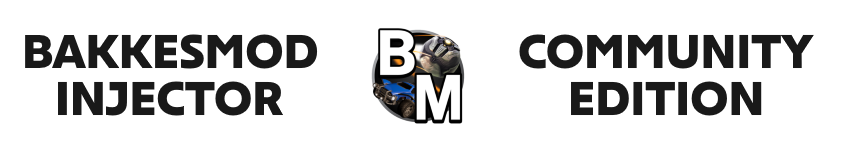
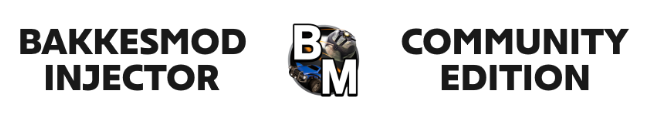
Initial Commit

diff --git a/README.md b/README.md
@@ -1,14 +1,14 @@
 <p align="center">
-  <img src="https://i.imgur.com/m5CjODH.png"><br></br>
+  <img src="https://i.imgur.com/Db7wmTl.png"><br></br>
   <b>Discord:</b> https://discordapp.com/invite/HsM6kAR
 </p>
 
 ## About
 
-BakkesModInjector Community Edition is as a replacement for the original BakkesModInjectorCpp that's provided by Bakkes.
-BakkesMod itself is the exact same, so you will keep all your files and get all the latest updates. The only difference is the injector.
+BakkesModInjector Community Edition is as a replacement for the original BakkesModInjectorCpp that's provided by default.
 Created by ItsBranK (me), along with the contributors SimpleAOB and Aberinkula/Megasplat;
-this project was created to provide users with a more user friendly, stable, and feature packed injector for daily users of BakkesMod.
+this project was made to provide daily BakkesMod users with a more user friendly, feature packed, stable experience.
+BakkesMod itself is the exact same, so you will keep all your files and get all the latest updates.
 
 Some of the new features in this edition are
 
